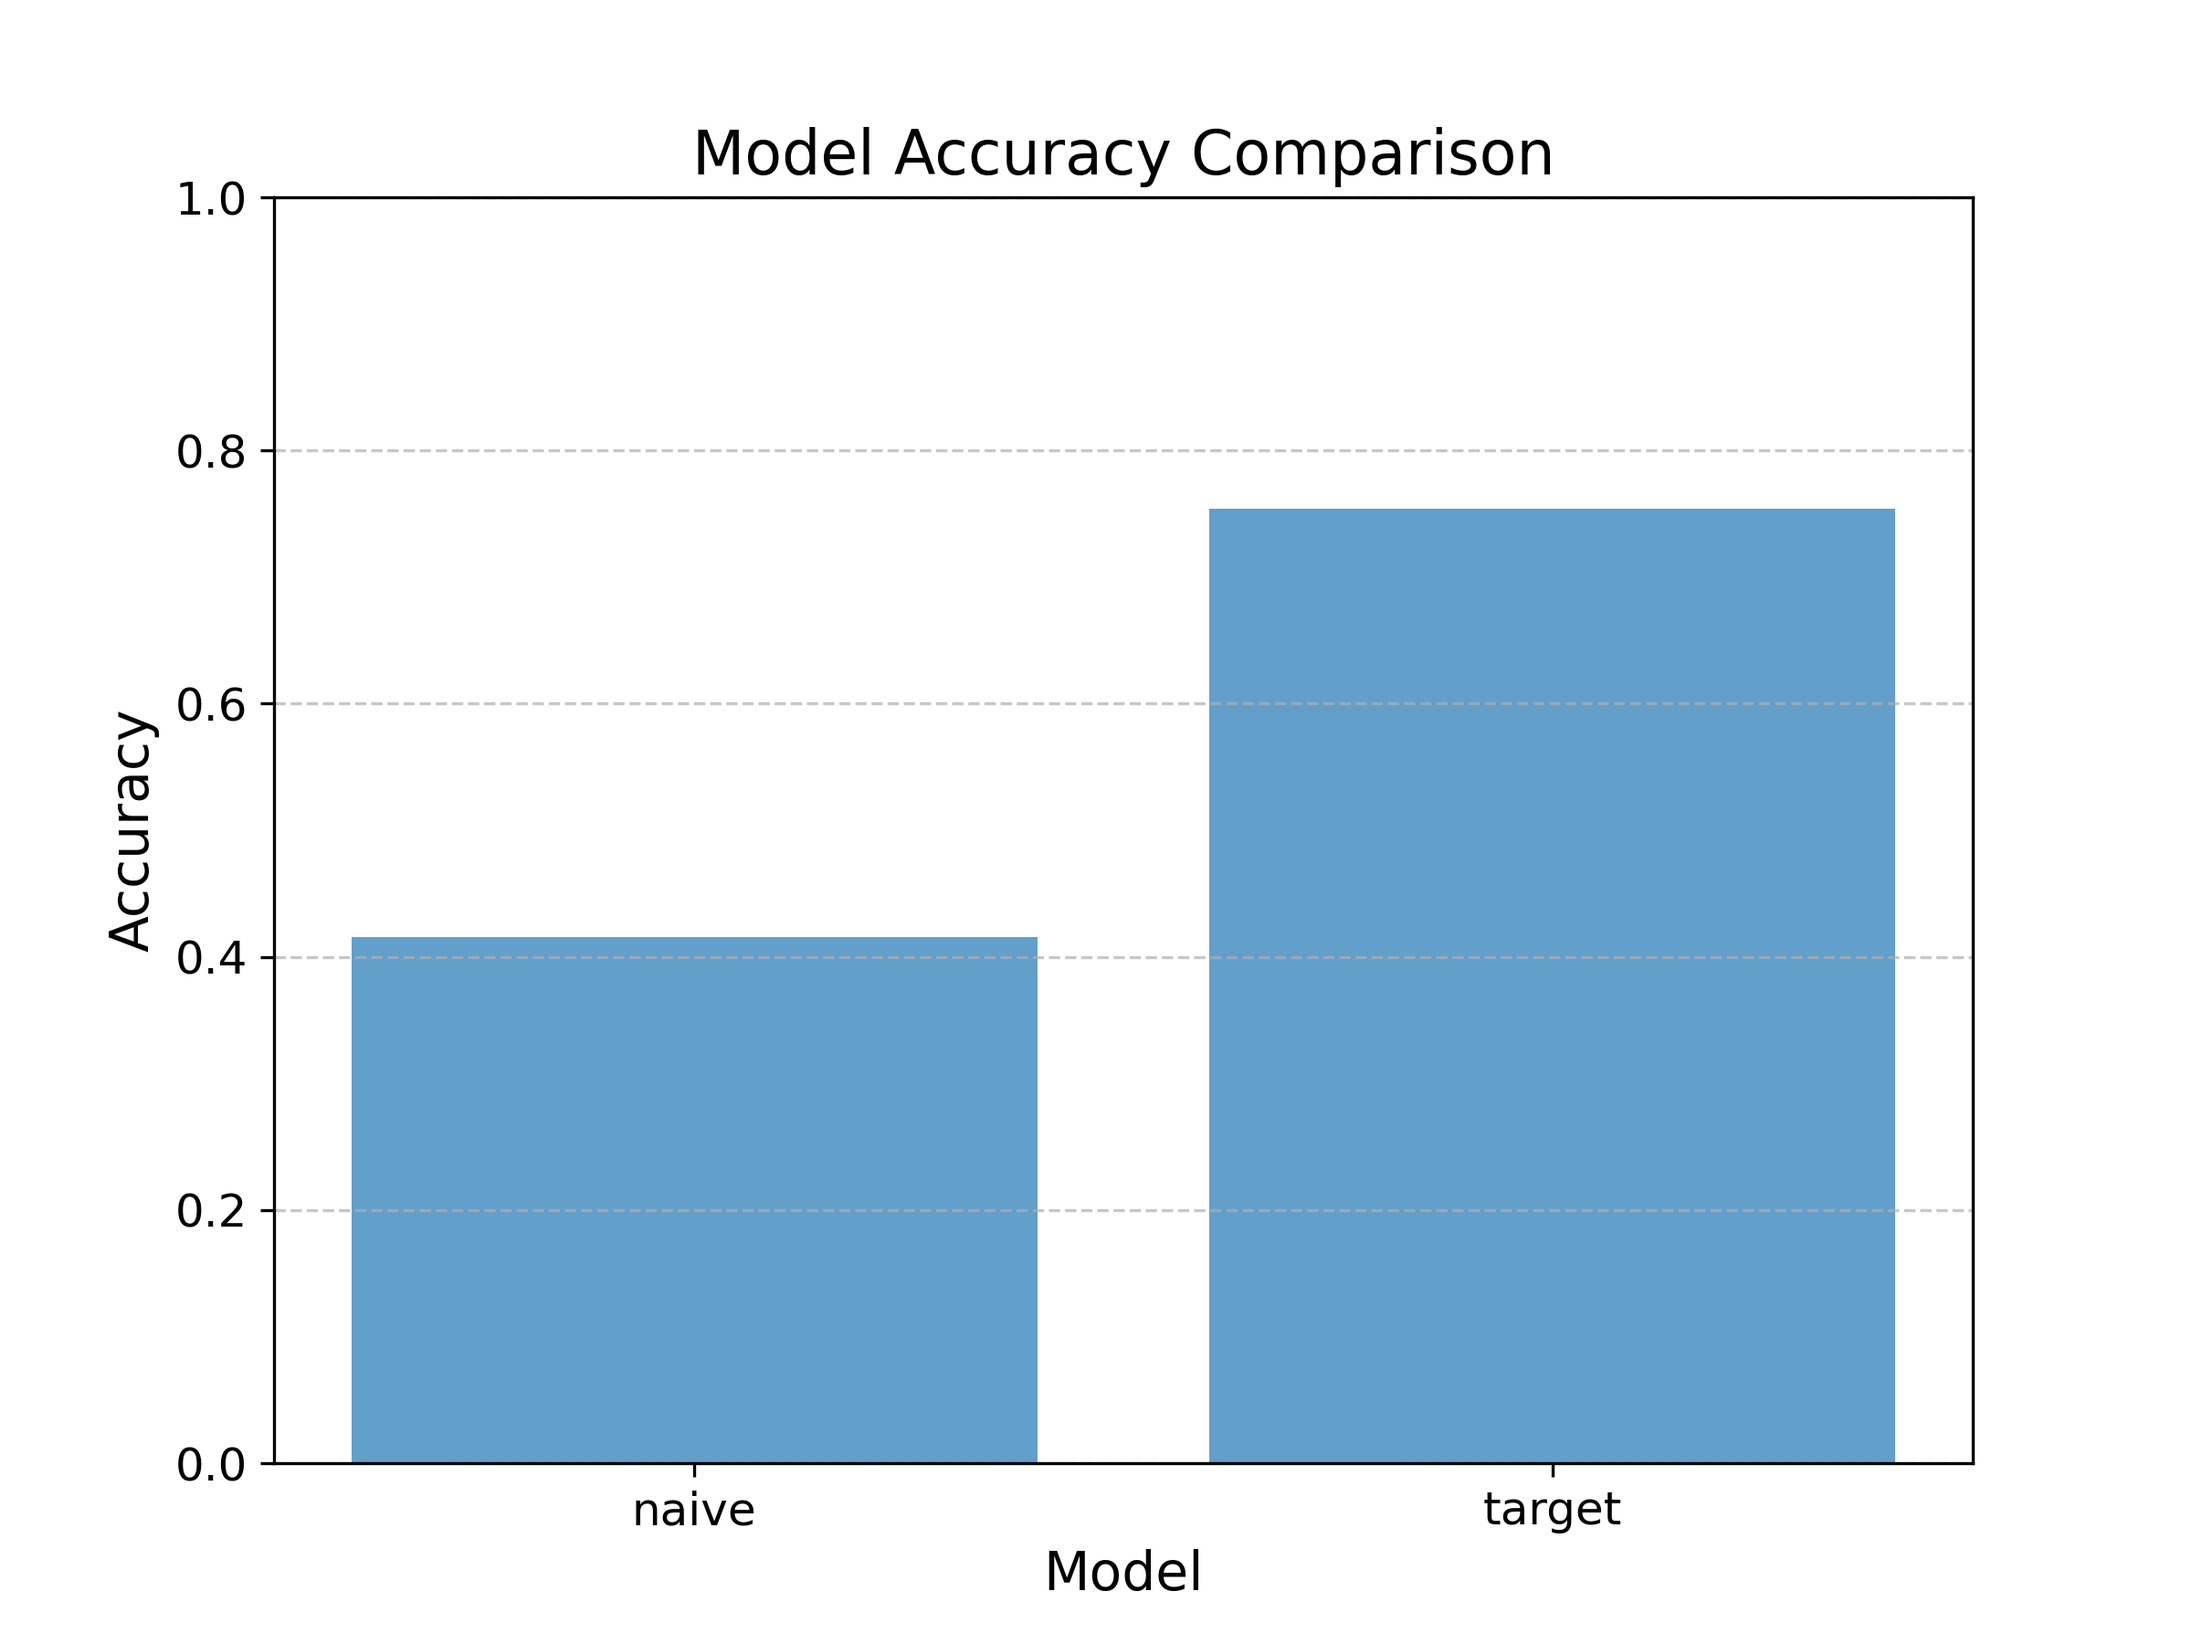
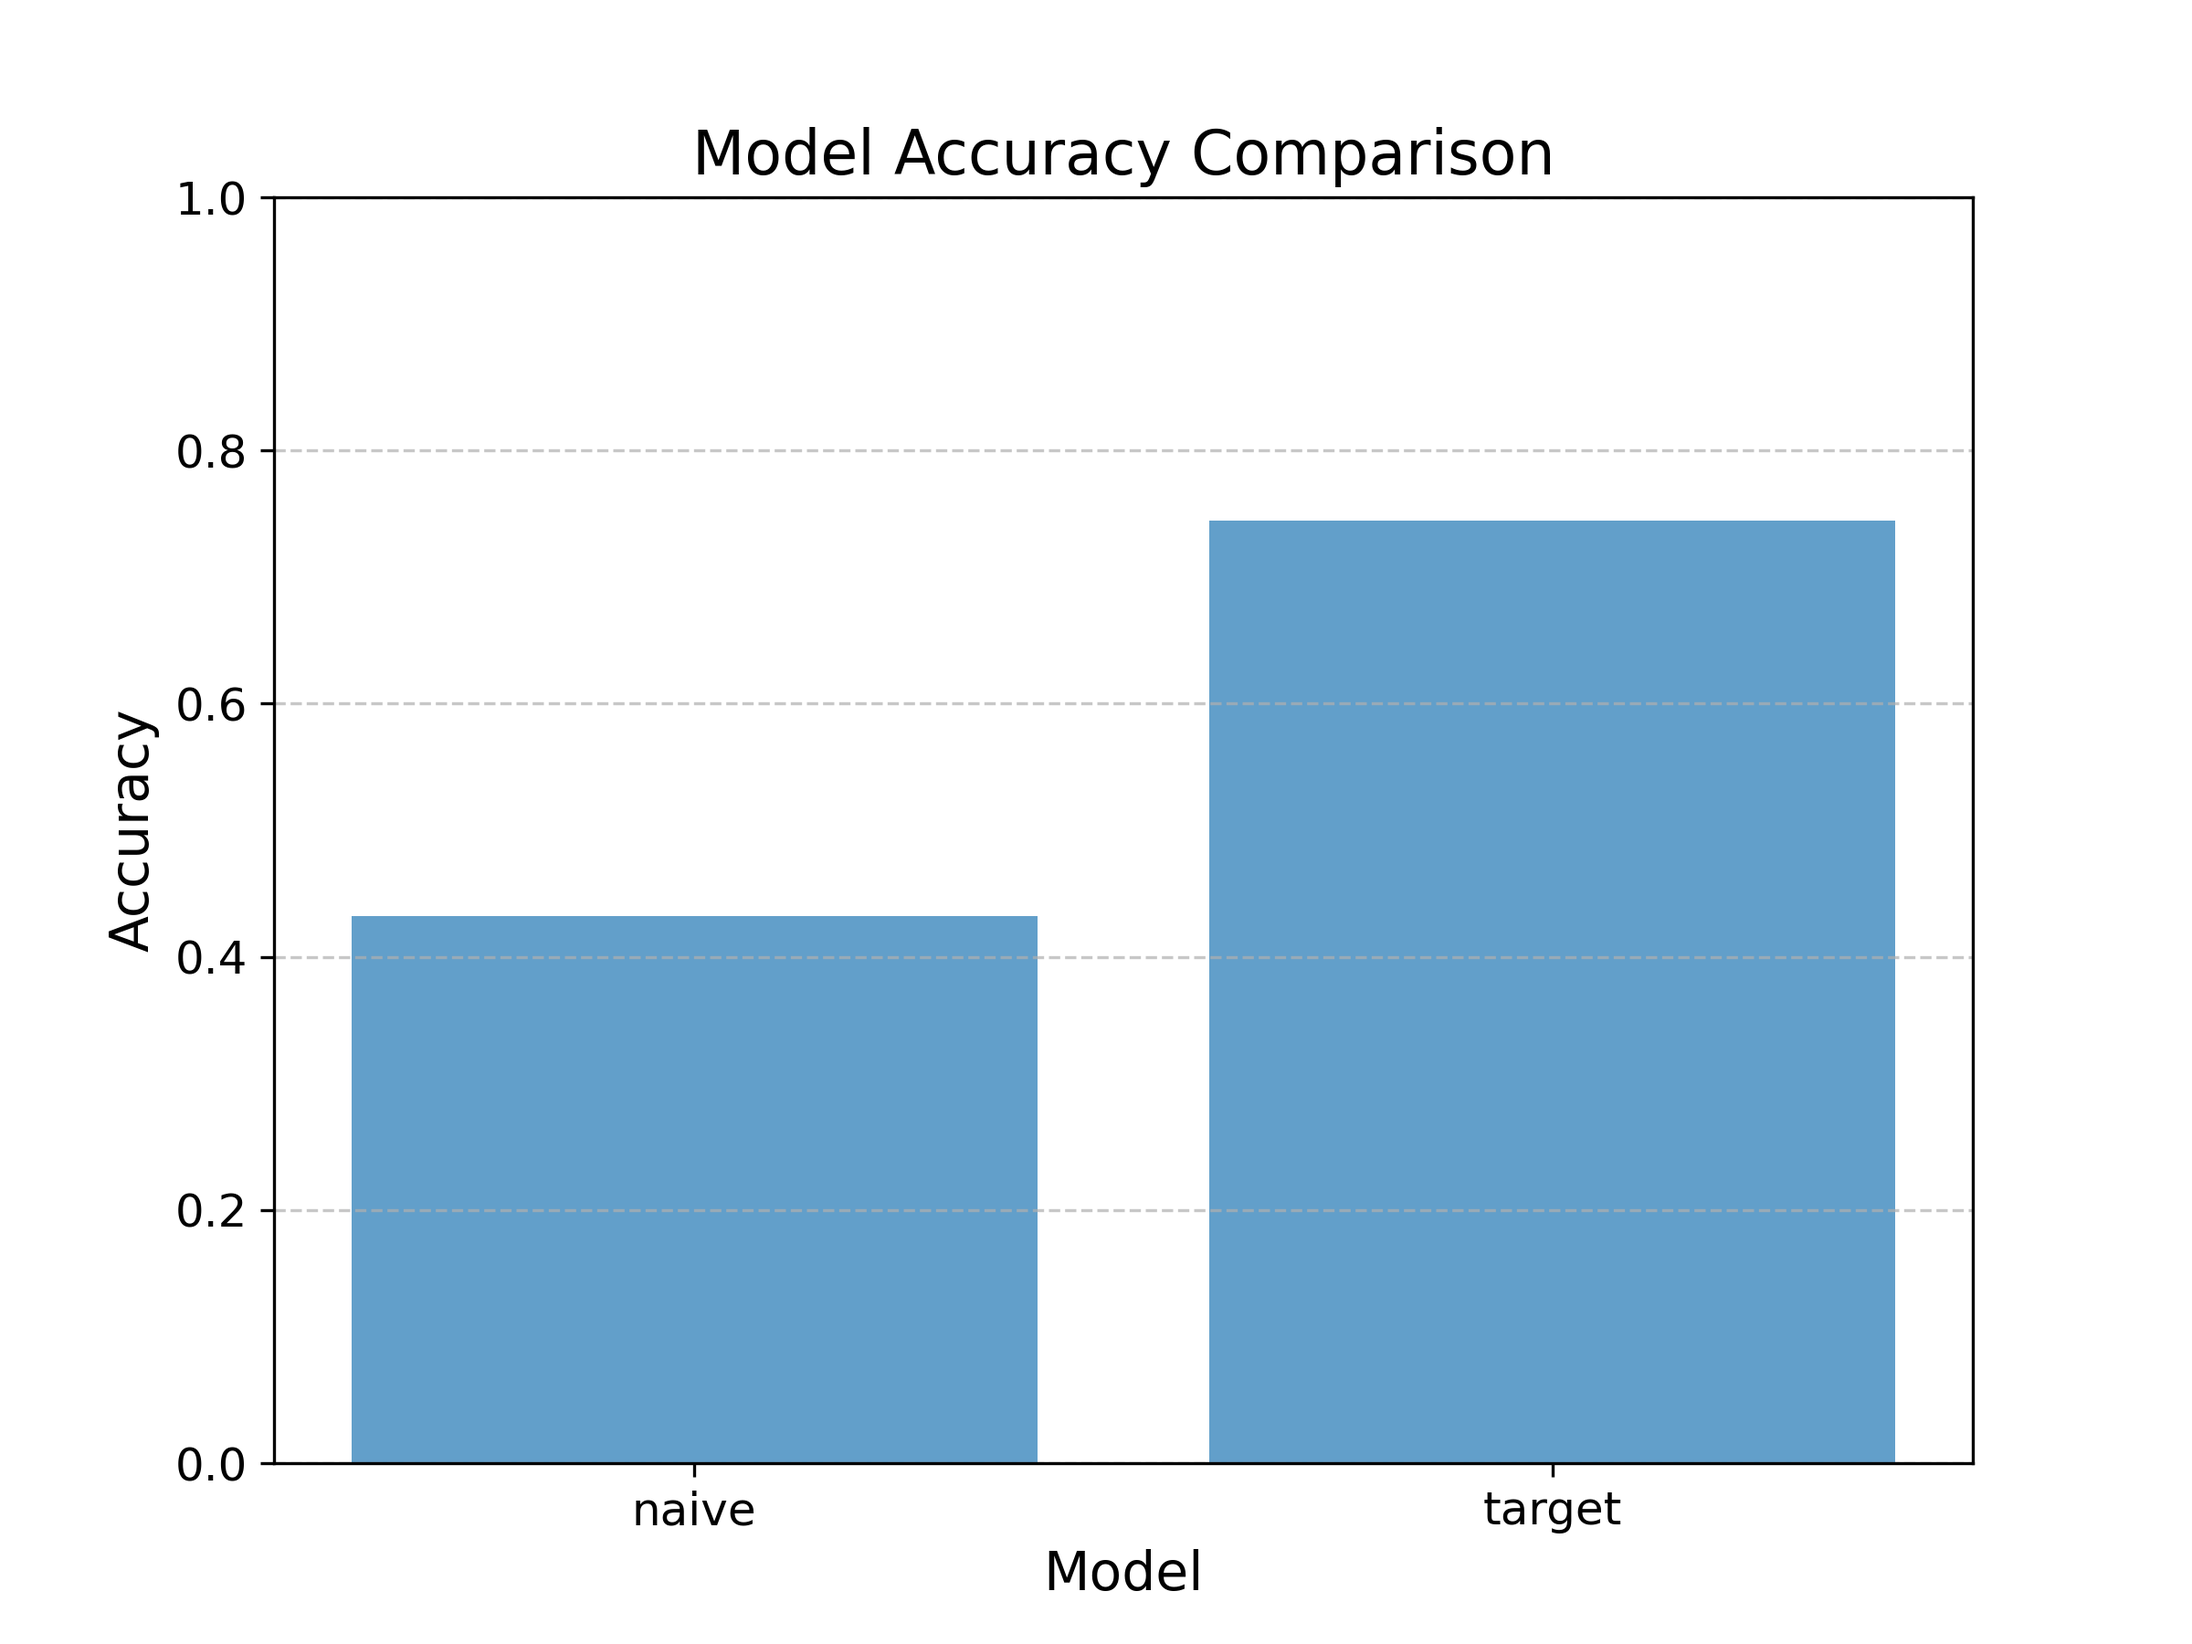
edit ab test

Changed region(s): [[0.5625, 0.3111, 0.875, 0.3422], [0.1562, 0.56, 0.4688, 0.5911]]

diff --git a/api/app.py b/api/app.py
@@ -1,7 +1,6 @@
 from ium_fij_niew.model_usage.model_classes import BaseModel, PredictResult, NormalModel
 from fastapi import FastAPI
 from pydantic import BaseModel as bs
-import random
 import json
 import os
 
@@ -57,7 +56,7 @@ async def target_predict(request: PredictionRequest):
 @app.post("/abtest")
 async def abtest(request: PredictionRequest):
     # Wybór modelu: 50/50 naiwnego i docelowego
-    chosen_model = "naive" if random.random() < 0.5 else "target"
+    chosen_model = "naive" if request.user_id % 2 == 0 else "target"
 
     if chosen_model == "naive":
         prediction = naive_model.predict(request.user_id, request.track_id)

diff --git a/etap2-model.md b/etap2-model.md
@@ -106,7 +106,7 @@ Przykładowe zapytanie z poziomu PowerShell:
 
 ### Testy AB
 
-Testy A/B w mikroserwisie są realizowane za pośrednictwem dedykowanego endpointu /abtest, który losowo wybiera jeden z dwóch modeli (naiwny lub docelowy) z równym prawdopodobieństwem 50/50. Dla każdego żądania serwis:
+Testy A/B w mikroserwisie są realizowane za pośrednictwem dedykowanego endpointu /abtest, który wybiera jeden z dwóch modeli (naiwny lub docelowy) z równym prawdopodobieństwem 50/50. Dla każdego żądania serwis:
 
 Losowy wybór modelu: Decyduje, czy predykcja zostanie wygenerowana przez model naiwny (BaseModel), czy docelowy (NormalModel).
 Wykonanie predykcji: Wybrany model generuje wynik dla danego użytkownika (user_id) i utworu (track_id), wskazując, czy utwór zostanie odtworzony (PLAY) czy pominięty (SKIP).
@@ -119,8 +119,8 @@ Wyniki przeprowadzonego testu:
 Dla obu modeli otrzymaliśmy następującą accuracy:
 ```
       model  accuracy
-   0   naive  0.415354
-   1  target  0.754065
+   0   naive  0.432075
+   1  target  0.744681
 ```
 
 W dobry sposób prezentuje to sporządzony wykres:
@@ -129,6 +129,6 @@ W dobry sposób prezentuje to sporządzony wykres:
 
 Wnioski na podstawie testów AB
 
-1. Uzyskane wyniki testu A/B wyraźnie wskazują, że model docelowy (target) osiąga znacznie lepszą skuteczność (accuracy: 75,41%) w porównaniu do modelu naiwnego (naive), którego dokładność wynosi jedynie 41,54%. Taka różnica sugeruje, że model docelowy lepiej przewiduje zachowania użytkowników, co czyni go bardziej wartościowym w praktycznym zastosowaniu, np. w systemach rekomendacyjnych.
+1. Uzyskane wyniki testu A/B wyraźnie wskazują, że model docelowy (target) osiąga znacznie lepszą skuteczność (accuracy: 74,47%) w porównaniu do modelu naiwnego (naive), którego dokładność wynosi jedynie 43,2%. Taka różnica sugeruje, że model docelowy lepiej przewiduje zachowania użytkowników, co czyni go bardziej wartościowym w praktycznym zastosowaniu, np. w systemach rekomendacyjnych.
 
 2. Sporządzony wykres nie tylko wizualizuje tę różnicę, ale także podkreśla istotność prowadzenia testów A/B jako narzędzia do podejmowania decyzji opartych na danych. Wyniki wskazują, że wdrożenie modelu docelowego może znacząco poprawić jakość rekomendacji i zadowolenie użytkowników.
